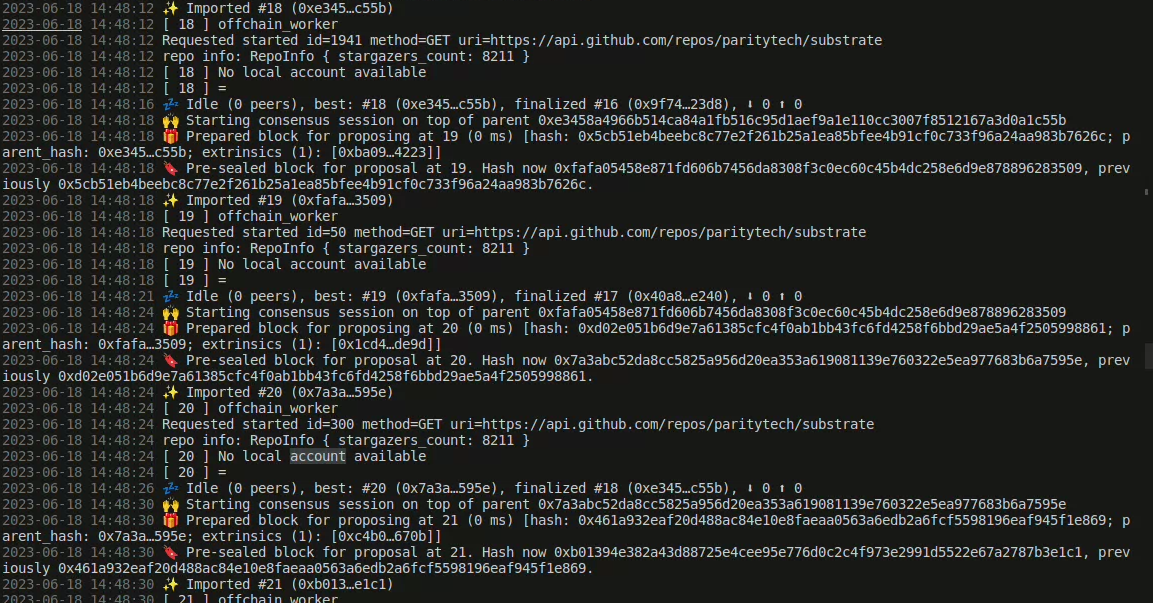
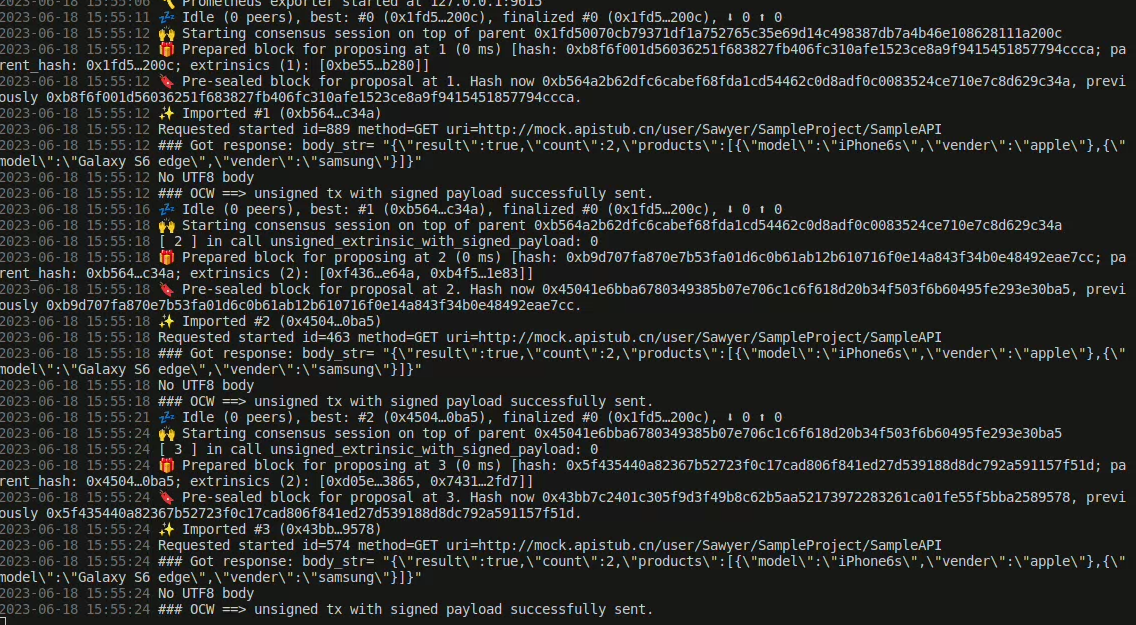
week4

diff --git a/pallets/ocw/src/lib.rs b/pallets/ocw/src/lib.rs
@@ -2,7 +2,6 @@
 
 pub use pallet::*;
 pub use offchain::*;
-
 mod offchain;
 
 #[frame_support::pallet]
@@ -17,12 +16,12 @@ mod pallet {
 	};
 
 	#[derive(Encode, Decode, Clone, PartialEq, Eq, RuntimeDebug, scale_info::TypeInfo)]
-	pub struct Payload<P> {
+	pub struct PayloadStruct<P> {
 		public: P,
-		number: u64,
+		count: u64,
 	}
 
-	impl<T: SigningTypes> SignedPayload<T> for Payload<T::Public> {
+	impl<T: SigningTypes> SignedPayload<T> for PayloadStruct<T::Public> {
 		fn public(&self) -> T::Public {
 			self.public.clone()
 		}
@@ -46,53 +45,37 @@ mod pallet {
 	#[pallet::pallet]
 	pub struct Pallet<T>(_);
 
-	#[pallet::hooks]
-	impl<T: Config> Hooks<BlockNumberFor<T>> for Pallet<T> {
-		fn offchain_worker(block_number: T::BlockNumber) {
-			log::info!("[ {:?} ] offchain_worker", block_number);
 
-			let result = crate::offchain::fetch_repo_info();
-			if let Err(_) = result {
-				log::error!("fetch_repo_info err");
-				return
-			}
-			let repo_info = result.unwrap();
-			log::info!("repo info: {:?}", repo_info);
+	
+
+
+	#[pallet::hooks]
+	impl<T:Config> Hooks<BlockNumberFor<T>> for Pallet<T> {
+		fn offchain_worker(_block_number: T::BlockNumber) {
+			//通过Http接口获取外部价格
+			let price = crate::offchain::get_count().unwrap_or(0);
+			let value:u64 = price.into();
 
 			let signer = Signer::<T, T::AppCrypto>::any_account();
 
-			if let Some((_accoount, result)) = signer.send_unsigned_transaction(
-				|account| Payload {
-					number: repo_info.stargazers_count,
-					public: account.public.clone(),
-				},
-				|payload, signature| Call::unsigned_extrinsic_with_signed_payload {
-					payload,
-					signature,
-				},
+			if let Some((_, res)) = signer.send_unsigned_transaction(
+				// this line is to prepare and return payload
+				|acct| PayloadStruct { count: value, public: acct.public.clone() },
+				|payload, signature| Call::unsigned_extrinsic_with_signed_payload { payload, signature },
 			) {
-				match result {
-					Ok(_) => {
-						log::info!(
-							"[ {:?} ] unsigned tx with signed payload successfully sent.",
-							block_number
-						);
-					},
-					Err(_) => {
-						log::error!(
-							"[ {:?} ] sending unsigned tx with signed payload failed.",
-							block_number
-						);
-					},
+				match res {
+					Ok(()) => {log::info!("### OCW ==> unsigned tx with signed payload successfully sent.");}
+					Err(()) => {log::error!("### OCW ==> sending unsigned tx with signed payload failed.");}
 				};
 			} else {
-				log::error!("[ {:?} ] No local account available", block_number);
+				// The case of `None`: no account is available for sending
+				log::error!("### OCW ==> No local account available");
 			}
 
-		
-			log::info!("[ {:?} ] =", block_number);
+
 		}
 	}
+
 
 	#[pallet::validate_unsigned]
 	impl<T: Config> ValidateUnsigned for Pallet<T> {
@@ -142,7 +125,7 @@ mod pallet {
 		#[pallet::weight(0)]
 		pub fn unsigned_extrinsic_with_signed_payload(
 			origin: OriginFor<T>,
-			payload: Payload<T::Public>,
+			payload: PayloadStruct<T::Public>,
 			_signature: T::Signature,
 		) -> DispatchResult {
 			ensure_none(origin)?;
@@ -150,7 +133,7 @@ mod pallet {
 			log::info!(
 				"[ {:?} ] in call unsigned_extrinsic_with_signed_payload: {:?}",
 				frame_system::Pallet::<T>::block_number(),
-				payload.number,
+				payload.count,
 			);
 
 			Ok(())

diff --git a/pallets/ocw/src/offchain.rs b/pallets/ocw/src/offchain.rs
@@ -13,6 +13,55 @@ pub struct RepoInfo {
 #[derive(Debug, Default, Encode, Decode)]
 pub struct IndexingData(Vec<u8>, u64);
 
+
+#[derive(Debug, Default, Encode, Decode, Deserialize)]
+pub struct PriceStructData {
+	pub price: u32,
+}
+
+
+pub fn get_count() -> Result<u32,http::Error>{
+	let deadline = sp_io::offchain::timestamp().add(Duration::from_millis(2_000));
+	
+	let request =
+	sp_runtime::offchain::http::Request::get("http://mock.apistub.cn/user/Sawyer/SampleProject/SampleAPI");
+	
+	let pending = request.deadline(deadline).send().map_err(|_| http::Error::IoError)?;
+
+	let response = pending.try_wait(deadline).map_err(|_| http::Error::DeadlineReached)??;
+	// Let's check the status code before we proceed to reading the response.
+	if response.code != 200 {
+		log::warn!("### Unexpected status code: {}", response.code);
+		return Err(http::Error::Unknown)
+	}
+
+	// Next we want to fully read the response body and collect it to a vector of bytes.
+	// Note that the return object allows you to read the body in chunks as well
+	// with a way to control the deadline.
+	let body = response.body().collect::<Vec<u8>>();
+
+	// Create a str slice from the body.
+	let body_str = sp_std::str::from_utf8(&body).map_err(|_| {
+		log::warn!("No UTF8 body");
+		http::Error::Unknown
+	})?;
+
+	log::warn!("### Got response: body_str= {:?}", body_str);
+
+	let price_struct: PriceStructData = serde_json::from_str(body_str).map_err(|_| {
+		log::warn!("No UTF8 body");
+		http::Error::Unknown
+	})?;
+	log::warn!("### Got response: price_struct= {:?}", price_struct);
+
+
+	let price = price_struct.price;
+
+	log::warn!("Got price: {} cents", price);
+
+	Ok(price)
+}
+
 pub fn fetch_repo_info() -> Result<RepoInfo, http::Error> {
 	// prepare for send request
 	let deadline = sp_io::offchain::timestamp().add(Duration::from_millis(8_000));

diff --git a/node/src/service.rs b/node/src/service.rs
@@ -135,6 +135,16 @@ pub fn new_partial(
 			compatibility_mode: Default::default(),
 		})?;
 
+	if config.offchain_worker.enabled {
+		let keystore = keystore_container.sync_keystore();
+		sp_keystore::SyncCryptoStore::sr25519_generate_new(
+			&*keystore,
+			node_template_runtime::offchain::app_crypto::KEY_TYPE,
+			Some("//Alice"),
+		)
+		.expect("Creating key with account Alice should succeed.");
+	}
+
 	Ok(sc_service::PartialComponents {
 		client,
 		backend,
